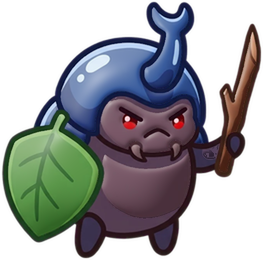
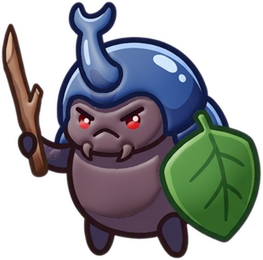
Keep the Beetle Knight facing left in every frame
Gemini drew the walk and the ready pose facing left, toward the
brawlers, but turned the beetle to face right in its sword swing. Turning
the whole sheet around to fix the swing made everything else face right.

Now nothing is turned: the attack is made from the ready pose, with only
the sword moving, back over the shoulder for the wind-up and down at the
brawlers for the strike. The still sprite faces left as drawn too.

Claude-Session: https://claude.ai/code/session_01EhkagQdMKRPvrdP32sj85t

diff --git a/scripts/make_enemies.py b/scripts/make_enemies.py
@@ -14,8 +14,11 @@ Output, in enemies/<enemy>/, everything facing left, toward the brawlers:
 plus enemies/enemies.json (the same fields as animations/animations.json) and a moving preview
 in examples/enemy_<enemy>.gif.
 
-The sheet is drawn facing right, like the brawlers' sheets, so it is lined up and timed like
-theirs (see extract_animations.py and brawler_motion.py) and only turned around at the end.
+Gemini draws the enemy facing left, toward the brawlers, but turns it to the right whenever
+it draws a sword swing. So the attack is made from the enemy's ready pose, with only its weapon
+moving (see `swing` in ENEMIES). The brawlers' tools (lining up, timing, placing the effect,
+see extract_animations.py and brawler_motion.py) work facing right, so the poses are turned
+around for them and back again at the end.
 
 Requires: numpy, Pillow
 Run from the repo root:  python3 scripts/make_enemies.py
@@ -45,19 +48,19 @@ ENEMIES = {
         "name": "Beetle Knight",
         "scale": 0.8,          # its size next to the brawlers, as in brawlers/sizes.json (the Mage is 1)
         "height": 260,         # px of its still sprite, like the brawlers' flat sprites
-        # The poses of the attack, from the sheet's bottom row. Gemini never drew the strike
-        # itself (the sword stays pulled back), so the strike is made from the ready pose: the
-        # sword and the hand holding it (what is inside the box `take`, without the bit of stick
-        # below row `below`) are taken off and put back in front of the body: the hand, at
-        # `hand`, goes to `to`, and the sword is turned by `turn` degrees and drawn `grow` times
-        # as long, so it swings down past the shield at whoever is in front. All in px of the
-        # pose on the sheet, from its top left corner, facing right as drawn.
-        "attack": [0, 1, "strike", 3],
-        "strike": {"pose": 0, "take": (40, 150), "below": 126, "hand": (25, 122), "to": (128, 112),
-                   "turn": -120, "grow": 1.3},
+        # The poses of the attack. Gemini turned the beetle to face right in the wind-up and
+        # never drew the strike, so both are made from the ready pose (the first pose of the
+        # sheet's bottom row), with only the sword moving: the sword and the hand holding it
+        # (everything left of `take`, without the end of the stick below row `below`) are
+        # turned around the middle of the hand (`hand`) by `turn` degrees, counter-clockwise,
+        # the sword drawn `grow` times as long. Back over its shoulder for the wind-up, down at
+        # the brawlers for the strike. In px of the pose on the sheet, from its top left corner.
+        "attack": [0, "windup", "strike", 3],
+        "swing": {"pose": 0, "take": 38, "below": 128, "hand": (24, 116),
+                  "windup": {"turn": -35}, "strike": {"turn": 105, "grow": 1.2}},
         # The slash: where its middle goes, as parts of the frame's width and height on the
-        # striking pose (facing right, as drawn), its longest side at its biggest (px of the
-        # frame), and how long before the hit lands it starts.
+        # striking pose (turned to face right, see above), its longest side at its biggest (px
+        # of the frame), and how long before the hit lands it starts.
         "slash": {"grows": "out", "point": (0.80, 0.50), "size": 230, "lead_ms": 30},
     },
 }
@@ -94,24 +97,23 @@ def cut_poses(sheet: Path) -> list[list[np.ndarray]]:
     return poses
 
 
-def strike(pose: np.ndarray, spec: dict) -> np.ndarray:
-    """The ready pose with its sword swung forward, in front of the body (see ENEMIES)."""
+def swing(pose: np.ndarray, swing: dict, move: dict) -> np.ndarray:
+    """The ready pose with its sword turned around the hand that holds it (see ENEMIES)."""
     h, w = pose.shape[:2]
     ys, xs = np.mgrid[0:h, 0:w]
-    off = (xs < spec["take"][0]) & (ys < spec["take"][1])     # the sword, the hand and the end of the arm
-    sword, body = pose.copy(), pose.copy()
-    sword[..., 3] = np.where(off & (ys < spec["below"]), sword[..., 3], 0)
-    body[..., 3] = np.where(off, 0, body[..., 3])
+    left = xs < swing["take"]
+    piece, body = pose.copy(), pose.copy()
+    piece[..., 3] = np.where(left & (ys <= swing["below"]), piece[..., 3], 0)
+    body[..., 3] = np.where(left, 0, body[..., 3])
     m = max(h, w)                                              # room for the sword to swing out
     canvas = Image.new("RGBA", (w + 2 * m, h + 2 * m), (0, 0, 0, 0))
     canvas.alpha_composite(Image.fromarray(body, "RGBA"), (m, m))
-    k = spec["grow"]
-    piece = Image.fromarray(sword, "RGBA").crop((0, 0, spec["take"][0], spec["below"])).convert("RGBa")
-    piece = piece.resize((round(piece.width * k), round(piece.height * k)), Image.LANCZOS)
-    (hx, hy), (tx, ty) = spec["hand"], spec["to"]
+    k = move.get("grow", 1.0)
+    hx, hy = swing["hand"]
+    sword = Image.fromarray(piece, "RGBA").convert("RGBa").resize((round(w * k), round(h * k)), Image.LANCZOS)
     layer = Image.new("RGBa", canvas.size, (0, 0, 0, 0))
-    layer.paste(piece, (round(m + tx - hx * k), round(m + ty - hy * k)))
-    layer = layer.rotate(spec["turn"], resample=Image.BICUBIC, center=(m + tx, m + ty))
+    layer.paste(sword, (round(m + hx - hx * k), round(m + hy - hy * k)))
+    layer = layer.rotate(move["turn"], resample=Image.BICUBIC, center=(m + hx, m + hy))
     canvas.alpha_composite(layer.convert("RGBA"))             # the sword in front of the body
     return np.asarray(canvas.crop(canvas.getbbox()))
 
@@ -159,18 +161,20 @@ def build(enemy: str) -> dict:
     folder = OUT / enemy
     folder.mkdir(parents=True, exist_ok=True)
 
-    # --- the still sprite, at the brawlers' size, facing left
+    # --- the still sprite, at the brawlers' size, facing left as drawn
     still = Image.fromarray(key_magenta(SRC / f"{enemy}.png", drop_purple=False), "RGBA")
     still = crop_to_alpha(np.asarray(still))
     k = spec["height"] / still.height
     still = resized(still, (round(still.width * k), round(still.height * k)))
-    shade(flipped(still)).save(folder / "still.png", optimize=True)
+    shade(still).save(folder / "still.png", optimize=True)
 
-    # --- the poses
+    # --- the poses, turned to face right for the brawlers' tools
     sheet = cut_poses(SRC / f"{enemy}_sheet.png")
-    walk = sheet[0]
-    attack = [strike(sheet[1][spec["strike"]["pose"]], spec["strike"]) if p == "strike" else sheet[1][p]
+    ready = sheet[1][spec["swing"]["pose"]]
+    attack = [sheet[1][p] if isinstance(p, int) else swing(ready, spec["swing"], spec["swing"][p])
               for p in spec["attack"]]
+    walk = [np.ascontiguousarray(p[:, ::-1]) for p in sheet[0]]
+    attack = [np.ascontiguousarray(p[:, ::-1]) for p in attack]
     poses = [walk, attack]
 
     # one size: walk poses made equal unless they really differ in shape, attack poses as
@@ -203,7 +207,7 @@ def build(enemy: str) -> dict:
     cells = {name: [cell(*f) for f in row] for name, row in zip(ROWS, placed)}
     frames = {}
     for name, row in cells.items():
-        frames[name] = [shade(flipped(f)) for f in row]                  # facing left: turned, then shaded
+        frames[name] = [shade(flipped(f)) for f in row]                  # facing left again: turned, then shaded
         strip(frames[name]).save(folder / f"{name}.png", optimize=True)
         strip([shade(f) for f in row]).save(folder / f"{name}_mirrored.png", optimize=True)
 

diff --git a/enemies/README.md b/enemies/README.md
@@ -40,15 +40,15 @@ The originals are in [`source/`](source/):
 - `beetle_sheet.png`: 8 poses, the walk on the top row and the attack below
 - `beetle_slash.png`: the slash of its sword, in 4 steps
 
-Gemini drew the sheet facing right, like the brawlers' sheets, so it is cut out, lined up,
-timed and shaded like theirs (see [`scripts/extract_animations.py`](../scripts/extract_animations.py)),
-and only turned around at the end.
+Gemini drew the walk and the ready pose facing left, toward the brawlers, as asked. But
+whenever it drew the sword swinging, it turned the beetle to face right, and it never drew the
+strike itself. So the attack is made from the ready pose, with only the sword moving: it goes
+back over the beetle's shoulder for the wind-up, then down at the brawlers for the strike. The
+beetle faces left the whole time. The sheet's second and third attack poses are not used.
 
-Gemini never drew the strike itself: however it was asked, the sword stayed pulled back. So
-the strike is made from the ready pose: the sword and the hand that holds it are taken off and
-put back in front of the body, swung down past the shield at the brawlers. The third pose of
-the sheet's bottom row is not used. The slash appears in front of the beetle as the hit lands,
-like the brawlers' attack effects.
+The poses are then lined up, timed and shaded like the brawlers' (see
+[`scripts/extract_animations.py`](../scripts/extract_animations.py)). The slash appears in
+front of the beetle as the hit lands, like the brawlers' attack effects.
 
 Its motion is with the brawlers' in [`scripts/brawler_motion.py`](../scripts/brawler_motion.py):
 a waddle for the walk, and for the attack a lunge with a little hop as it winds up.
